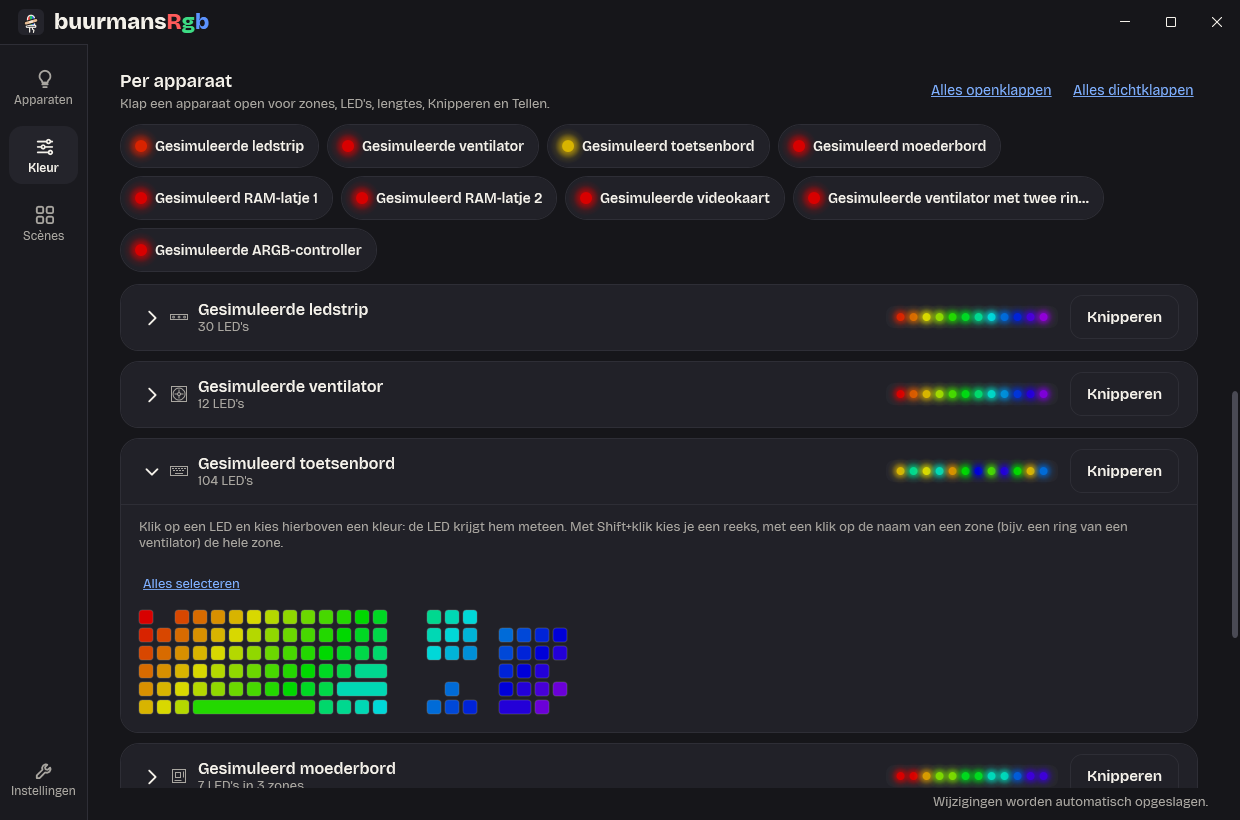
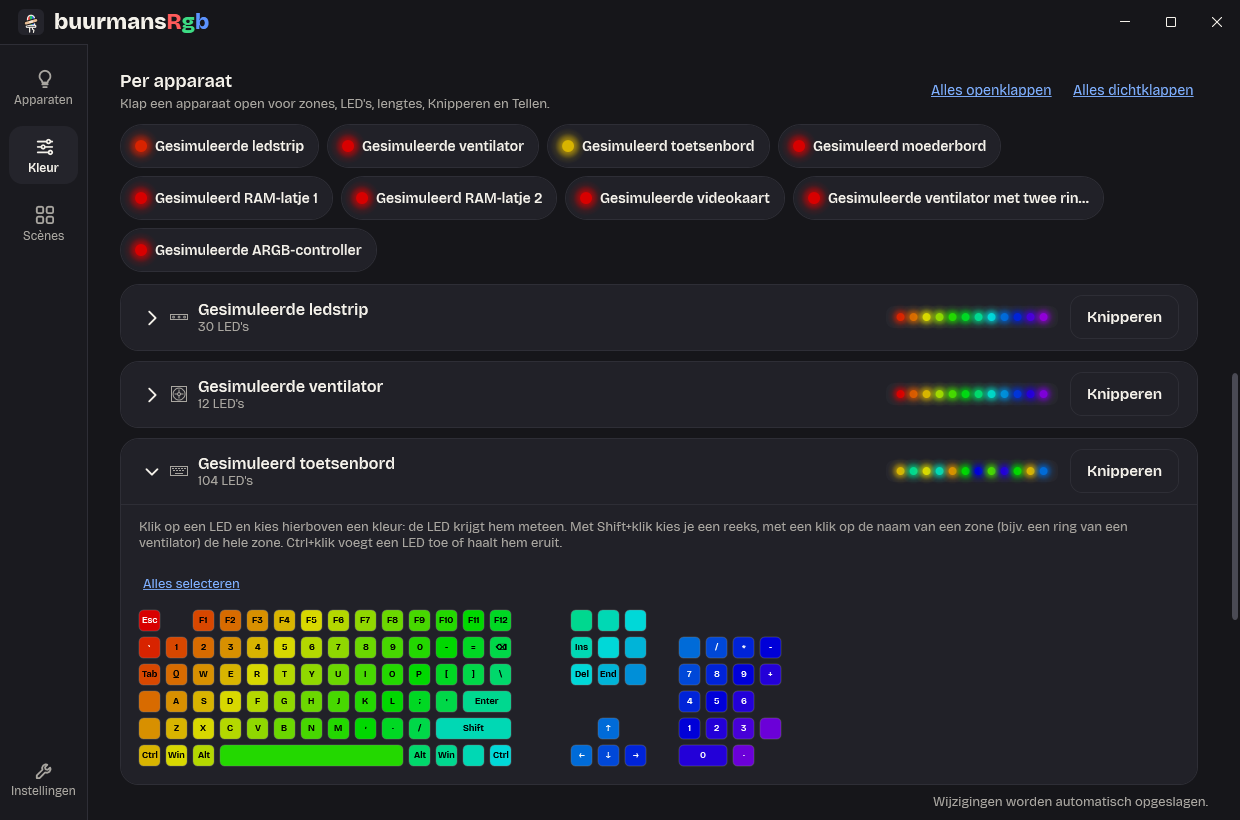
docs: describe Ctrl+click and key letters
DESIGN.md 9.11, the manual (Ctrl+click, Ctrl+Space, letters on the
keys), developer docs (tests, measurement, steps on real hardware), a
row in the build plan and new ideas. Fresh screenshots of the keyboard
with letters and with W, A, S and D chosen by Ctrl+click.

diff --git a/docs/ontwikkelaars.md b/docs/ontwikkelaars.md
@@ -126,6 +126,7 @@ met `RepoFiles` (`Root`, `AppSource`), en de XAML van de app als tekst met `AppX
 | Statusregel | `StatusLineViewModelTests` (met nep-bronnen: één melding met zijn knop, de pauze vóór het voorbeeld dat stilstaat en de verbinding weg vóór alles, met de rest op volgorde onder Details en "Details: nog 1 melding"/"nog 2 meldingen"; de verbinding weg alleen bij `DevicesExpected` en alleen bij "niet bereikbaar" of "geen goed antwoord"; de volgende neemt de regel als de belangrijkste wegvalt, met de melding uit `Others` gehaald in plaats van de lijst opnieuw gemaakt en de weggevallen melding pas daarna leeg; "Effecten lopen weer." zonder knop en na 5 s weg; de knop volgt zijn bron ("Stilzetten", "Zoeken…"); Details sluit als er niets meer onder staat; na `Dispose` volgt hij niet meer), `StatusLineViewTests` (op het echte `LampsPage` en `ColorPage`: de pauze in de regel met "Hervatten" en het voorbeeld onder Details, dat Tab bereikt en een schermlezer bij naam kent, "Laten lopen" werkt daar en houdt de focus; de verbinding weg neemt de regel en wordt voorgelezen, "Opnieuw verbinden" zegt "Zoeken…", "Hervatten" onder Details stuurt `resume`, en de pauze krijgt de regel terug; "Hervatten" in de regel verplaatst de focus; de focus blijft op "Laten lopen" onder Details als de verbinding terugkomt, gaat van Details naar de knop in de regel als Details weggaat, en van "Opnieuw verbinden" naar de schakelaar van Hele huis als die knop of de hele kaart weggaat; een pauze die komt brengt de kaart en wordt voorgelezen; zonder echte apparaten geen regel bij OpenRGB weg), `OpenRgbStatusViewModelTests` (de gewone zin per stand, de technische zin met de SDK-server, de tooltip met de tip, `CanRestart` alleen zonder verbinding, `RestartRequested`), `OpenRgbStatusViewTests` (rechtsboven op Apparaten: de zin, de tooltip, de ⓘ, "Herstarten" dat Tab bereikt en `restart` stuurt met de melding onderaan, weg zodra OpenRGB terug is; bij Instellingen de technische zin uitgeschreven), `MainViewModelTests` (`Restart_…`), `EngineApiTests`, `EngineIpcServerTests` en `EngineRpcTests` (`RestartAsync` bereikt wat het tray-item doet, over de pipe, en doet niets zonder) |
 | Andere RGB-software | `OtherRgbSoftwareListTests` (met een verzonnen proceslijst: elk programma op een van zijn exe-namen zonder `.exe`, in elke hoofdletter, ook als service in sessie 0; een programma één keer; de volgorde van de lijst; de service OpenRGB alleen of een OpenRGB alleen in de eigen sessie geen melding, een OpenRGB in een gebruikerssessie naast de service wel; de ids die `settings.json` bewaart en geen exe-naam twee keer), `OtherRgbSoftwareCheckTests` (met `FakeProcessSnapshot` en `FakeResumeEvents`: niets lezen tot er gevraagd wordt, één keer melden, een gestopt programma weg, een lijst die niet leest houdt wat er was, na het ontwaken opnieuw kijken, wegklikken voorgoed ook als het programma terugkomt, een id met de hand in andere hoofdletters telt ook, een onbekende id geweigerd, met de hand terugzetten), `SystemProcessSnapshotTests` (de echte proceslijst: het eigen proces met zijn sessie, en `services` in sessie 0), `EngineHostTests` en `EngineHostReloadTests` (één check bij het starten, wegklikken bewaard, met de hand weghalen toont de melding weer zonder het bestand te herschrijven), `EngineApiTests` (Verversen kijkt opnieuw), `JsonSettingsStoreTests` (`dismissedOtherRgbSoftware`), `EngineRpcTests`, `StatusLineOtherRgbSoftwareTests` (de zin, "Uitleg" met de uitleg in de app (afsluiten, Opstartapps, Handmatig), open tot de melding weggaat en daarna dicht, de link naar `#andere-rgb-software` alleen met een handleiding, de eigen zin en uitleg van een tweede OpenRGB, de plek na de verbinding en vóór de pauze, "Niet meer melden" in de regel en onder Details), `MainViewModelOtherRgbSoftwareTests`, `AppInfoViewModelTests` (`OpenGuideAt`) en `StatusLineViewTests` (voorgelezen, de naam "SignalRGB niet meer melden" en de focus daarna; "Uitleg over SignalRGB" als wisselknop vóór "Niet meer melden" in de Tab-volgorde, open en dicht met de toggle-status, de uitleg in de UI Automation-boom, zonder handleiding geen link; onder Details een eigen Uitleg met de link die de handleiding opent), `MainViewModelStillPreviewTests` ("Niet meer melden" haalt geen nieuw beeld) |
 | Per-LED-editor | `LedEditorViewModelTests`, `MainViewModelLedEditorTests` (ook mengen kleurt de gekozen LED's meteen, en een slepende schuif terwijl de engine bezig is geeft weinig aanroepen met de laatste kleur, met `FakeEngineApi.SetGate`, ook als de engine tussendoor `LightingChanged` meldt; ook alleen met toetsen een reeks kiezen en kleuren, twee snelle Shift+→ voordat de engine de kleuren gaf, alles kiezen en Escape; een ander effect dan Per LED kiezen heft de selectie op, ook bij Kleurenloop, een effect van de engine niet), `DevicePreviewKeyboardTests` (de actieve LED: vorige en volgende ook over zones heen, Home en End, de grenzen, ↑ en ↓ naar de rij die de view vond of de zone ernaast, Shift voor een reeks vanaf de LED waar je vandaan kwam, Ctrl+A, Escape alleen met een selectie op dat apparaat, een klik maakt een LED actief, bij een kortere lengte blijft hij op een LED die de zone toont), `PreviewViewModelTests` (de actieve LED blijft op zijn plek in zijn zone als de apparaten opnieuw komen, ook als een zone ervoor langer werd), `LedPreviewViewKeyboardTests` (welke toets wat doet, de rij erboven of eronder in een rij die omloopt en op een toetsenbord met een brede spatiebalk, Tab-stop en focus naar de zone met de actieve LED, een echte klik op een ander apparaat neemt de focus alleen mee als die al in de LED's stond, de tooltip terug naar de actieve LED als de muis weggaat, de focusring, UI Automation, ook dat het item van de actieve LED de focus meldt; met een echt venster buiten beeld) |
+| Losse LED's en letters op de toetsen | `LedSetTests` (een verzameling losse LED's: erbij, eruit, een reeks erbij, eerste en laatste), `LedEditorViewModelTests` en `MainViewModelLedEditorTests` (Ctrl+klik en Ctrl+Spatie zetten een LED erbij of halen hem eruit, de laatste eruit heft de selectie op, een kleur, Verloop vullen en de laag gaan alleen naar de gekozen LED's en de LED's ertussen houden hun kleur of laag), `LedPreviewViewKeyboardTests` en `LedPreviewViewTests` (Ctrl+pijltjes alleen de focus, Ctrl+klik, `SelectionItemPattern` met `AddToSelection` en `RemoveFromSelection`), `KeyCapTextTests` (de korte tekst op een toets uit de toetsnaam: letters, F-toetsen, het numerieke blok, de woorden uit `Strings.resx`, niets voor de spatiebalk en lange onbekende namen), `KeyCapDrawingsTests` (zwart of wit naar de kleur van de toets, voor elke kleur minstens 4,5:1, dezelfde bevroren tekening in elk beeld, in het midden van de toets, wegvallen als de tekst niet past ook bij 225 %, in het contrastthema de kleur met een rand), `LedPreviewViewKeyCapTests` (de toetsen 1,5 keer zo groot met letters, op een smalle pagina zo groot als past en nooit breder dan zonder letters, groter met grotere tekst, in een nieuw beeld dezelfde tekeningen, opnieuw gemaakt bij een andere tekstgrootte, bij grote tekst op kleine toetsen valt weg wat niet past), `TextScaleViewTests.KeyboardWithKeyText_FitsThePageAtTheTextSize` (het gesimuleerde toetsenbord met letters op Kleur in het kleinste venster bij 100, 200 en 225 %: niets afgekapt, geen breder toetsenbord dan de pagina, de letters in de tekstgrootte), `ContrastThemeStyleTests.KeyboardPreview_KeyTextHasTheTextOfWindowsWithAHalo` en `ContrastThemeTests` (`KeyCapBrush` en `KeyCapHaloBrush`). `TestKeyboards` is het volledige toetsenbord van de gesimuleerde apparaten voor de UI-tests |
 | Pagina's | `NavigationViewModelTests`, `ColorPickerViewModelTests` (elke gemengde kleur meteen op het apparaat, ook elke stap van een schuif, behalve bij `IsUnused`, en een hex-code die geen kleur is: niets tijdens het typen, bij het verlaten van het veld de code van de kleur terug met een melding die weggaat met een kleur die klopt, een andere kleur of `Show`; een leeg veld zonder melding), `HexCodeViewTests` (op de echte `ColorPage`: de melding onder de hex-code pas als het veld de focus verliest, als live region; de hex-code is een veld met de rand van invoer en de focusring, waarin een hele code past, ook in het kleinste venster; de naam van de kleur staat ervoor, loopt mee met de schuiven en is geen live region), `MainViewModelDeviceColorTests` (per ingebouwd effect en een eigen effect of de kiezer de kleur nergens kwijt kan: alleen bij Regenboog, met een regel die het effect noemt, ook bij "Hele huis" en na een scène; mengen stuurt dan niets, + bewaart de kleur wel, en na Statisch gaat een kleur weer meteen op het apparaat; een scène met Statisch daarna toont de kleur van het apparaat, een scène die Regenboog laat staan houdt de gemengde kleur), `MainViewModelTests` en de andere `MainViewModel*Tests`, waaronder `MainViewModelFollowLightingTests` (Kleur volgt een scène uit het tray-menu; een kleur die je bij Regenboog mengt blijft staan, behalve als de scène een effect met een kleur aanzet; in `MainViewModelTests` ook bij elke nieuwe lijst apparaten zolang hetzelfde apparaat gekozen blijft, en is dat weg, dan de kleur van "Hele huis") en `MainViewModelColorLoopTests` (een loopkleur verandert meteen mee met de schuiven, hex en vaste kleuren, ook slepend terwijl de engine bezig is en tussendoor `LightingChanged` meldt), `ColorLoopViewTests` (op de echte `ColorPage` gaat het vinkje "Kleuren over de LED's verdelen (…)" over meer regels in plaats van afgekapt te worden, ook naast de navigatiebalk in het kleinste venster van 960 px breed; `CheckBoxStyleTests`: het vakje staat naast de eerste regel en bij één regel in het midden), `MainViewModelEffectColorsTests` (de kleuren van Fonkelen, Komeet, Scanner en Vuur: de vakjes bij die effecten, zonder lijst de kleur van het apparaat of het warme vuur, verven, + en −, wisselen tussen effecten houdt elk zijn lijst, twee lijsten die wachten vervangen elkaar niet, gekozen LED's gaan voor, "Standaardkleuren" alleen met een eigen lijst en daarna weer de kleur van het apparaat of het warme vuur), `ColorLoopEditorViewModelTests` (de vakjes blijven dezelfde bij verven en kiezen) en `ColorListEditorViewModelTests` (de gedeelde editor van de kleurenloop en de effecten, binnen zijn minimum en maximum), `PresetTileTests` (de dikke rand van het gekozen vakje, met een echt venster buiten beeld), `ColorListEditorViewTests` (de vakjes, + en − in een echt venster buiten beeld, 12 kleuren in twee rijen van zes, en de kaart "Kleuren van het effect" met "Standaardkleuren" op de echte `ColorPage`; XAML van de app zoekt zijn stijlen al tijdens het laden, dus `AppTheme` zet het thema in de resources van een `Application`, alleen zolang zo'n test loopt, in een collectie die niet parallel loopt), `CustomColorsViewModelTests` (+ met de kleur van de kiezer, niet dubbel, hooguit 12, weghalen, `Show` zonder terugsturen) en `ToolboxViewTests` (op de echte `ColorPage`: de vakjes van 32 px in rijen van links naar rechts, de eerste negen op één rij in een breed venster, focus, namen voor een schermlezer, + en een eigen kleur met de focus naar het nieuwe vakje, de focus terug op dezelfde kleur als de engine andere kleuren stuurt, Delete met de focus naar het volgende vakje of +, "Weghalen" in het contextmenu, een vaste of eigen kleur gaat zonder knop meteen op alle apparaten bij "Hele huis" en op het gekozen apparaat, en bij Regenboog geen mengpaneel maar één zin in kaart 4) en `TileCornerTests` (de kleinere hoeken van de vakjes van 32 px en van +, de vakjes van 44 px en de knop "+ nieuw" houden die van het ontwerp) |
 | Contrast en velden | `TokenContrastTests` (de contrasten van de kleuren in `Tokens.xaml` met de formule van WCAG 2 (`Wcag`): tekst en subtekst op elk vlak, de primaire knop en de links minstens 4,5:1, de rand van invoer op `surface`, `bg` en `preview-bg`, de tekst van een knop die uit staat (`DisabledTextColor`) op `bg`, `surface`, `surface-raised` en `preview-bg` ook minstens 4,5:1, de ring van een LED die uit staat of zwart is op `preview-bg`, `bg`, `surface` en de strip, het spoor van een schakelaar die uit staat (`SwitchOffTrackColor`) op `surface`, `surface-raised`, `bg` en `preview-bg`, en de knop van die schakelaar op een kaart en op dat spoor minstens 3:1; een nieuw paar gaat in `TextPairs` of `NonTextPairs`; de rand van een veld in rust, onder de muis en met de focus steeds lichter; geen brush in `Tokens.xaml` met een losse hexcode in plaats van een `Color`-token, met `LooseBrushPattern` zelf ook getest), `InputBorderStyleTests` (een tekstvak, een keuzelijst en een vinkje van het thema hebben `InputBorderBrush` in rust en `ControlHoverBrush` onder de muis, een tekstvak met de focus de ring van 2 px in tekstkleur), `DisabledStyleTests` (een gewone en een ronde knop die uit staan houden hun doorzichtigheid en krijgen `DisabledTextBrush`, een vlak in `DisabledFaceBrush` en de rand `DisabledBorderBrush` met een pijl als muisaanwijzer, aan blijven de kleuren van een knop; een dag die aan staat maar uit is krijgt ook de grijze tekst; een schakelaar die uit staat het spoor `SwitchOffTrackBrush` met de knop `KnobOffBrush`, aan het spoor in zijn kleur met de knop in `OnAccentBrush`), `SwitchTrackBrushConverterTests` (de knop van een schakelaar die aan staat minstens 3:1 op het spoor in de kleur van het apparaat, ook bij `#0000FF`, donkerblauw, grijs en zwart; de tint blijft, en niet lichter dan nodig; een kleur die het al haalt, blijft) |
 | Contrastthema | `ContrastThemeTests` (op de resources van `Theme.xaml`, met `FakeHighContrast`: met een contrastthema aan is elk token precies de brush van `SystemColors` die bij zijn rol hoort (`Assert.Same`: verschillende systeemkleuren kunnen gelijk zijn, zoals `HighlightText` en `Window`), elk token van `SystemBrushes` dat geen token van het ontwerp is (`DesignTokens`), heeft een regel in `RoleDesignColors` (een nieuw token zonder regel maakt de test rood) en zonder thema die kleur van het ontwerp: de kleur die het onderdeel eerst had, en wat alleen in een contrastthema te zien is, is zonder thema doorzichtig, uit blijven de kleuren van het ontwerp, aan en weer uit gaat erheen en terug, een ander contrastthema vervangt de kleuren in plaats van ze op te stapelen, de LED-kleuren, `LedOffBrush`, `StripBgBrush` en `StripLedOffRingBrush` veranderen niet, elke sleutel van `SystemBrushes` is een token, na `Dispose` volgt hij niet meer, en geen XAML van de app gebruikt een van die tokens als `StaticResource`, in geen van de vormen: `{StaticResource X}`, `{StaticResource ResourceKey=X}` of het element `<StaticResource ResourceKey="X" />`), `ContrastThemeViewTests` (de echte `SettingsPage`: een pagina die al open is, krijgt de systeemkleuren als het thema aangaat en de kleuren van het ontwerp terug als het uitgaat: subtekst, kaart, rand en de schakelaar met zijn bedekking, ring en knop), `ContrastThemeStyleTests` (de stijlen van `Controls.xaml` met een contrastthema aan: een gewone knop, een ronde knop en een kaartknop hebben `ButtonFace` en `ButtonText`, een gewone knop die uit staat `GrayText` voor tekst en rand op `ButtonFace` zonder doorzichtigheid, de primaire knop, een aangevinkt vakje en een dag die aan staat `Highlight` met `HighlightText`; onder de muis heeft de primaire knop `HighlightText` met tekst en ring in `Highlight`, een link `HotTrack` in rust en `Highlight` onder de muis, altijd onderstreept in de kleur van de tekst, de streepjesrand van "+ nieuw" en de schuifbalk `Highlight` in plaats van `WindowText`, een schakelaar (aan of uit) een ring in `Highlight`, en het kruisje van de titelbalk `Highlight` met `HighlightText` in plaats van rood), `HighContrastMessagesTests` (de meldingen van Windows die `SystemHighContrast` doorgeeft, door de test zelf gegeven: twee meldingen achter elkaar, ook van een andere thread, geven één `Changed` op de thread van de dispatcher, een melding daarna weer een, en alleen `HighContrast` van `SystemParameters` en de categorie `Color` van `UserPreferenceChanged` tellen), `DeviceChoiceViewTests` (de keuze van een apparaat op Kleur: de plek is gedempt, op het gekozen item van de open lijst `OnHighlightMutedTextBrush`, en het vak boven de lijst schrijft geen bindingsfout; de test luistert daarvoor naar `PresentationTraceSources.DataBindingSource`, wat na `PresentationTraceSources.Refresh()` ook zonder debugger werkt) |
@@ -195,8 +196,10 @@ apparaat in het voorbeeld kijkt. Een paar dingen om te proberen:
   gekozen en de tooltip noemt hem al; een klik in het midden van een ring kiest niets.
 - Doe de per-LED-editor alleen met het toetsenbord: ga bij "Gesimuleerd toetsenbord" met Tab
   naar de toetsen (de actieve krijgt een ring en een tooltip), loop met de pijltjes, ↑ en ↓,
-  Home en End, kies met Spatie, breid uit met Shift+→, kies alles met Ctrl+A en hef op met
-  Escape. Kies een reeks, ga met Shift+Tab terug naar de schuif Rood en druk een paar keer →:
+  Home en End, kies met Spatie, breid uit met Shift+→, zet een losse toets erbij of eruit met
+  Ctrl+Spatie (Ctrl+pijltjes gaan alleen met de focus), kies alles met Ctrl+A en hef op met
+  Escape. Op het gesimuleerde toetsenbord staan de letters op de toetsen; met Ctrl+klik kies je
+  losse toetsen, zoals W, A, S en D. Kies een reeks, ga met Shift+Tab terug naar de schuif Rood en druk een paar keer →:
   de reeks kleurt bij elke stap mee. Bij de ventilator met twee ringen gaat → van de binnenste
   ring door naar de buitenste, en de focus gaat mee. Kies "Hele huis", klik "Alles openklappen"
   en klik met de focus in de toetsen op een LED van een ander apparaat: de ring gaat mee. Zet daarna Verteller aan
@@ -1415,6 +1418,7 @@ Gemeten op de ontwikkel-pc; "één kern" is het percentage van één CPU-kern.
 | Engine | Scènes en eigen effecten delen (`scene-delen`): alleen bij een klik op Exporteren, Code kopiëren, Importeren of Code plakken; geen timer, polling of luisteraar erbij en niets per frame. Brotli zit alleen in de app (`ShareCode`). Een eigen engine is niet gemeten (de mutex en de events `Local\BuurmansRgb.Engine*` gelden voor de hele Windows-sessie). Los gemeten in Release met een tijdelijke test (daarna weg) op `EngineApi` met de gesimuleerde apparaten: een scène met een eigen effect van drie stappen, acht apparaten met een eigen kleur, 100 per-LED-kleuren en vier apparaten die meedoen; drie rondes van 2.000 keer na 200 om op te warmen (importeren 200 keer) | Exporteren 29–117 µs, `SharedFileReader.Read` 37–182 µs, de code maken 3,8–4,0 ms (Brotli op de kleinste stand, in de app) en lezen 25–37 µs; importeren 2,4 ms per scène, oplopend tot 10–25 ms als er al honderden "Gamen (n)" zijn (de vrije naam zoeken). Eén keer per klik, dus niet te merken | 17–22 KB per export, 36–37 KB per lezen, 28 KB per code lezen, ~100 KB per import; de JSON 4.781 bytes, de code 636 tekens (een scène zonder per-LED-kleuren 482) |
 | Engine | Overgang naar een scène (`scene-overgang`): een eigen engine is niet gemeten (de mutex en de events `Local\BuurmansRgb.Engine*` gelden voor de hele Windows-sessie). Los gemeten in Release met een tijdelijke testklasse (daarna weg) in een `git archive` van main (fa954a5) en van de branch: `RenderAnimationFrame` (Render + `DeviceOutput` + versturen) over één apparaat van 104 LED's op een `ManualClock`, 20.000 frames opwarmen en dan 200.000, vier rondes om en om met main; en het begin van een wissel (`Replace`) over de twaalf gesimuleerde apparaten, 2.000 keer. Zonder overgang komt er niets bij: geen timer, geen polling | Regenboog per frame 1,59–1,97 µs, main 1,53–1,87 µs: geen verschil buiten de ruis. Tijdens een overgang van regenboog naar regenboog 2,34–2,67 µs (~0,8 µs voor de mengkleur), van statisch naar statisch 0,83–0,87 µs; bij 30 fps ~0,008 % van één kern, alleen zolang de overgang loopt (standaard 0,5 s). Bij een statisch effect loopt de render-loop alleen tijdens de overgang en stopt daarna weer. Het begin van een wissel 11,4–13,2 µs met overgang tegen 9,2–10,7 µs direct (één render extra per apparaat voor de kleuren van dat moment). Na "alleen apparaten die veranderen gaan over" (opnieuw gemeten, 1f1e886 tegen de fix, om en om, de pc drukker dus alles hoger): een wissel van alle apparaten met overgang 31,5–38,6 µs (was 33,1–43,6), een scène van één apparaat 12,3–30,2 µs (was 13,5–48,9: de andere elf renderen niet meer extra), "Alles aan/uit" 14,7–40,7 µs (was 10,0–35,6): het vergelijken valt in de ruis | 0 bytes per frame, ook tijdens een overgang (`LightingControllerSceneFadeTests`). Per apparaat één buffer van 3 bytes per LED bij de eerste overgang, daarna hergebruikt (~336 bytes voor 104 LED's). Een wissel alloceert 2.040 bytes met overgang, 2.256 direct: de nieuwe effecten, zoals altijd. "Alles aan/uit" met overgang ~1,2 KB meer per wissel (de verlichting van vóór, om te vergelijken), een scène niets meer; een frame nog steeds 0 bytes |
 | Engine | Laag boven het effect (`toetsenbord-laag`): geen eigen engine gemeten (de mutex en de events `Local\BuurmansRgb.Engine*` gelden voor de hele sessie). Los gemeten in Release in een testproces (tijdelijke testklassen in een kopie van `scene-overgang` en van de branch, `artifacts\toetsenbord-laag\meting.md` in de werkruimte van de nacht): `RenderAnimationFrame` over één apparaat van 104 LED's met Regenboog, 200.000 frames na 200.000 opwarmen, vier runs om en om | Per frame: vóór 1,23–1,48 µs; na zonder laag 1,25–1,66 µs, met een laag op 4 LED's (WASD) 1,25–1,38 µs, op alle 104 LED's 1,49–1,92 µs (binnen de ruis tot ~0,3 µs meer, ~0,001 % van één kern bij 30 fps). Statisch met een laag: geen render-loop | 0 bytes per frame (ook `RenderAnimationFrame_WithALayer_AllocatesNothing`); een paar honderd bytes per apparaat met een laag, één keer gemaakt bij een andere laag |
+| App (testproces, Release) | Losse LED's en letters op de toetsen (`ctrl-klik-selectie`): de engine verandert niet. Gemeten is `OnRender` van het voorbeeld van het gesimuleerde toetsenbord (104 toetsen, 900 px breed, 10 LED's gekozen, elke frame andere kleuren), in een tijdelijke testklasse (daarna weg) in Release, 20.000 beelden opwarmen en 5 × 40.000 beelden, drie keer om en om met de build van `toetsenbord-laag` (plus een eerdere run van vóór) (`artifacts\ctrl-klik-selectie\meting.md` in de werkruimte). Na: met letters op de toetsen. Zonder de 92 `DrawDrawing`-aanroepen (een proef) is het weer 18.352 B en ~13–16 µs: de view zelf maakt per beeld niets aan, de extra bytes zijn de opnames van WPF zelf. Bij 20 beelden per seconde is dat ~0,2 ms CPU en ~270 KB extra per seconde, alleen zolang het toetsenbord open in beeld is | Vóór 13,4–32,6 µs (beste 13,4), na 22,2–33,1 µs (beste 22,2) per beeld; de pc was niet stil, dus de ruis is groot | Vóór 18.352 B, na 31.864 B per beeld (WPF) |
 | App (Release, zichtbaar) | Op Lampen, regenboog | ~5,0 % van één kern (was 10,2 % vóór de begrenzing van het voorbeeld) | 166 MB working set, 83 MB private |
 | App (Release, zichtbaar) | Op Kleur met "Hele huis", regenboog | ~3,2 % van één kern (was 3,8 %) | 179 MB working set, 88 MB private |
 | App (Release, zichtbaar) | Op Scènes, of geminimaliseerd, regenboog | 0,0–0,2 % (was 1,7 en 0,6 %): geen beelden | 182–191 MB working set, 89–97 MB private |
@@ -1830,6 +1834,27 @@ doe je zelf. Noteer wat werkt in [hardware.md](hardware.md).
    **Laag weghalen**) en zet de scène weer aan: de laag komt terug, met een zachte overgang als
    "Overgang naar een scène" niet op Direct staat.
 6. Zet de pc in slaapstand en maak hem wakker: na 10 seconden horen effect en laag terug te zijn.
+
+### Losse LED's en letters op de toetsen
+
+1. Klap bij Kleur het echte toetsenbord open en klik op W; Ctrl+klik daarna op A, S en D en kies
+   rood: alleen W, A, S en D lichten rood op, de toetsen ertussen houden hun kleur. Ctrl+klik nog
+   eens op S: S is niet meer gekozen. Doe hetzelfde met Als laag boven het effect en Regenboog.
+2. Doe hetzelfde alleen met het toetsenbord: ga met Tab naar de toetsen, loop met Ctrl+→ en
+   Ctrl+↓ (de keuze blijft staan) en zet toetsen erbij of eruit met Ctrl+Spatie.
+3. Kijk of de letters in het voorbeeld kloppen met de toetsen van het echte toetsenbord (ook bij
+   een niet-Amerikaanse indeling: OpenRGB geeft Amerikaanse namen, dus op een AZERTY- of
+   Duits toetsenbord kan het voorbeeld `Q` zeggen waar de toets `A` is; noteer het in
+   `docs/hardware.md`), en of de letters leesbaar blijven terwijl Regenboog eroverheen loopt.
+4. Zet Verteller aan (Ctrl+Win+Enter) en ga met Tab naar de toetsen: Verteller noemt de toets
+   ("W (LED 40)"), zijn kleur en of hij geselecteerd is; na Ctrl+Spatie zegt hij "geselecteerd"
+   of "niet geselecteerd". Doe hetzelfde met NVDA.
+5. Zet een contrastthema van Windows aan (Instellingen > Toegankelijkheid > Contrastthema's,
+   bijv. Woestijn en Nachtelijke hemel): de letters hebben de tekstkleur van het thema met een rand
+   in de vensterkleur en zijn op elke toetskleur leesbaar. Zet het thema daarna terug.
+6. Zet de tekstgrootte van Windows op 200 % (Instellingen > Toegankelijkheid > Tekengrootte):
+   het toetsenbord is breder en past zonder horizontale schuifbalk, ook in het kleinste venster;
+   lange woorden vallen weg, letters en cijfers blijven. Zet de tekstgrootte daarna terug.
 
 ### Eigen effecten
 

diff --git a/docs/handleiding.md b/docs/handleiding.md
@@ -590,7 +590,7 @@ een verloop van rood naar paars, donkerblauw, met een paar seconden overlopen).
 
 #### Per apparaat
 
-![Per apparaat bij "Hele huis": de chips om naar een apparaat te springen en de dichte kaarten, de kaart van het toetsenbord open met de regenboog op 45°](images/voorbeeld.png)
+![Per apparaat bij "Hele huis": de chips om naar een apparaat te springen en de dichte kaarten, de kaart van het toetsenbord open met de regenboog op 45° en de letters op de toetsen](images/voorbeeld.png)
 
 Onder "Bewaar als scène" staat de kop **Per apparaat**, met per apparaat een kaart. Bij "Hele
 huis" zijn die kaarten eerst dicht, zodat je niet langs alle LED's van alle apparaten hoeft te
@@ -694,6 +694,15 @@ Apparaten of Kleur staat meteen het nieuwste beeld er.
   maken de toetsen kleiner in een smal venster. LED's buiten de map (bijv. een logo) staan in
   een rij eronder. Met toetsnamen tekent het voorbeeld Tab, Caps Lock, Shift, Ctrl, Backspace,
   Enter, de spatiebalk en de 0 van het numerieke blok breder over de lege vakjes ernaast.
+- **Letters op de toetsen:** met toetsnamen staat op elke toets een korte tekst zoals op de toets
+  zelf: `W`, `7`, `F5`, `Esc`, `Ctrl`, `↑`. De letter is zwart of wit, wat het best afsteekt
+  tegen de kleur van de toets op dat moment; in een contrastthema van Windows heeft hij de
+  tekstkleur van Windows met een rand in de vensterkleur. Daarvoor is een toetsenbord met letters
+  anderhalf keer zo groot (toetsen van 21 px in plaats van 14), zolang het venster breed genoeg is;
+  met een grotere tekst in Windows groeien de toetsen mee. Past een tekst niet op zijn toets, dan
+  valt hij weg: bij 100 % bijv. `Shift` en `Caps` op een smalle toets, bij 200 % in een klein
+  venster de meeste woorden; letters, cijfers en pijltjes blijven. De spatiebalk heeft geen tekst.
+  De naam van een toets voor de muis en de schermlezer blijft zoals hij was (`W (LED 40)`).
 - **Namen:** wijs een LED aan voor zijn naam en nummer, bijv. "Escape (LED 1)", of "LED 5"
   zonder naam. Een schermlezer noemt de LED's zo ook, met de kleur die de LED op dat moment toont
   erachter ("LED 5, rood", "Escape (LED 1), warm wit"; zie "Kleurnamen" bij "Toegankelijkheid"), en kan ze selecteren
@@ -758,6 +767,13 @@ LED's, meteen terwijl je schuift, een hex-code typt of een vaste kleur kiest. St
 uit, dan gaat het aan bij de eerste kleur, ook bij "Verloop vullen". Kies je een andere LED, dan
 toont het mengpaneel diens kleur; de LED's ervoor houden wat je mengde.
 
+Met **Ctrl+klik** zet je een losse LED bij de gekozen LED's of haal je hem eruit, zoals in
+Verkenner: zo kies je bijv. W, A, S en D zonder de toetsen ertussen. Ctrl+Shift+klik zet de reeks
+vanaf de vorige klik erbij. Boven het mengpaneel staat dan hoeveel het er zijn ("4 LED's van
+Gesimuleerd toetsenbord") in plaats van "LED 3 t/m 7".
+
+![Het gesimuleerde toetsenbord met de letters op de toetsen; W, A, S en D zijn met Ctrl+klik gekozen en hebben elk een selectiering, de toetsen ertussen niet](images/toetsen-wasd.png)
+
 - **Naast een LED klikken mag:** een klik tot 12 px van het midden van een LED kiest die LED,
   ook als het bolletje kleiner is, ook net boven of naast het voorbeeld en ook met Shift. Zo is
   elke LED een doel van minstens 24 px, ook bij een verkleind toetsenbord. Tussen twee LED's kies
@@ -781,14 +797,22 @@ toont het mengpaneel diens kleur; de LED's ervoor houden wat je mengde.
   | Home en End | Naar de eerste of laatste LED van het apparaat |
   | Spatie of Enter | Kiest de actieve LED, zoals een klik |
   | Shift+pijltje, Shift+Home of Shift+End | Breidt de reeks uit tot de LED waar je heen gaat, zoals Shift+klik; zonder keuze begint de reeks bij de LED waar je vandaan kwam |
+  | Ctrl+pijltje, Ctrl+Home of Ctrl+End | Gaat naar die LED zonder de keuze te veranderen |
+  | Ctrl+Spatie | Zet de actieve LED bij de gekozen LED's of haalt hem eruit, zoals Ctrl+klik |
   | Ctrl+A | Kiest alle LED's van het apparaat, zoals "Alles selecteren" |
   | Escape | Heft de selectie op, zoals "Selectie opheffen" |
 
   Daarna ga je met Shift+Tab terug naar boven, naar de schuiven en de vaste kleuren: elke
   stap kleurt de gekozen LED's meteen.
-  Een schermlezer noemt de actieve LED bij zijn naam en kleur en zegt of hij gekozen is.
+  Een schermlezer noemt de actieve LED bij zijn naam en kleur en zegt of hij gekozen is
+  ("geselecteerd"); met de opdrachten van de schermlezer om een item aan de selectie toe te voegen
+  of eruit te halen werkt hij zoals Ctrl+klik. Haal je de laatste gekozen LED eruit, dan is het
+  alsof je Selectie opheffen koos.
+- **Losse LED's en de rest:** een kleur, een vaste kleur en de laag gaan alleen naar de gekozen
+  LED's; de LED's ertussen houden hun eigen kleur of laag.
 - **Verloop vullen** vult de reeks met een verloop van de kleur van de eerste naar die van de
-  laatste LED (geef die dus eerst een kleur).
+  laatste LED (geef die dus eerst een kleur). Met losse LED's gaat het verloop in gelijke stappen
+  over de gekozen LED's; de LED's ertussen houden hun kleur.
 - **Selectie opheffen**, een ander apparaat kiezen of een ander effect dan Per LED kiezen, geeft
   het mengpaneel weer aan het apparaat (bij Kleurenloop aan de kleur van de loop); een kleur zet
   het apparaat dan niet terug op Per LED.
@@ -807,7 +831,7 @@ toont het mengpaneel diens kleur; de LED's ervoor houden wat je mengde.
   Met Ctrl+A (of "Alles selecteren") en Laag weghalen haal je de hele laag van het apparaat weg.
   De knop is grijs zolang geen van de gekozen LED's een laag heeft.
 
-  ![Kleur voor de LED's met een toets van het gesimuleerde toetsenbord gekozen: onder "Waar komt de kleur?" staat "Als laag boven het effect" aan naast "Per LED", met "Laag weghalen" ernaast en daaronder het mengpaneel op rood](images/kleur-laag.png)
+  ![Kleur voor de LED's met W, A, S en D van het gesimuleerde toetsenbord gekozen ("4 LED's van Gesimuleerd toetsenbord"): onder "Waar komt de kleur?" staat "Als laag boven het effect" aan naast "Per LED", met "Laag weghalen" ernaast en daaronder het mengpaneel op rood](images/kleur-laag.png)
 
 - De laag hoort bij de verlichting: hij wordt bewaard, gaat mee in een scène (ook met "Bewaar als
   scène" en "Bijwerken met wat nu brandt") en in een gedeelde scène, en gaat mee in de overgang

diff --git a/docs/bouwplan.md b/docs/bouwplan.md
@@ -451,6 +451,7 @@ getest zonder hardware; wat op echte hardware getest moet worden, staat in `ontw
 | #137 | Refactor na de review van #135–#136, zonder dat er voor de gebruiker iets verandert: `RovingFocus.TargetOf` neemt het gedeelde begin van de pijltjesafhandeling van `DeviceChipRow` en `EffectTileGroup` over; de focussleutels van kaart en chip staan als `CardFocusKey`/`ChipFocusKey` in `DevicePreviewViewModel`; `TestEffects` heeft de effecten van de engine en Disco voor de tests; `LightingColumnWidth` heet `ValueColumnWidth`; de comments over de verdwenen regel onder de gemengde kleur zijn bijgewerkt. Twee ideeën staan in `docs/ideas.md` (één enum voor wat de kleurkiezer kleurt, en of `ColorPicker.IsUnused` weg kan). Het gedrag en het tekenen veranderden niet, dus geen meting |
 | #138 | Overgang naar een scène (`scene-overgang`, testpanel, Noor): een zachte overgang (crossfade) van de kleuren van dat moment naar een scène, en bij "Alles aan" en "Alles uit" (tray-menu, sneltoetsen, **Hele huis**, `--all-on`/`--all-off`, "Uit om" en "Aan om"), 0–2 s, standaard 0,5 s; tijdgebaseerd in de engine, 0 bytes per frame, bij een statisch effect alleen een render-loop zolang de overgang loopt. Een wissel tijdens een overgang begint bij de kleuren van dat moment; slaapstand, vergrendelen, scherm uit, pauzeren, afsluiten en OpenRGB dat wegvalt wachten er niet op. Te kiezen bij Instellingen onder Effecten ("Overgang naar een scène": Direct, Kort, Normaal, Rustig, Langzaam), bewaard als `sceneFade` in `settings.json` (optioneel, begrensd); de zip van "Instellingen bewaren…" neemt het mee, een gedeelde scène niet. "Minder beweging" van Windows laat de overgang zoals gekozen (licht in de kamer, geen beweging op het scherm) |
 | #139 | Laag boven het effect (`toetsenbord-laag`, testpanel, Jayden): een vaste kleur op gekozen toetsen of LED's boven op het effect, bijv. WASD rood over Regenboog, bij elk apparaattype. In de Per-LED-editor op Kleur onder "Waar komt de kleur?" twee ronde keuzeknoppen, **Per LED** (zoals eerst) en **Als laag boven het effect**, en de knop **Laag weghalen** (voor de gekozen LED's; met Ctrl+A de hele laag), grijs met tooltip zolang er niets weg te halen is; een LED met een laagkleur opent op de laag, Verloop vullen werkt ook in de laag. In de engine een masker per apparaat in `DeviceOutput` (`ShowOverlay`, alleen opnieuw gemaakt bij een andere laag; `LedOverlayStore`) na het effect en vóór de helderheid en de overgang, onder Tellen en Knipperen; uit is uit, ook de laag; LED's voorbij het eind van een kortere zone slaat hij over. Een apparaat waarvan alleen de laag verandert, gaat mee in de overgang naar een scène (`ChangedLocked`). Bewaard als `overlay` in `settings.json` en `profiles.json` (optioneel: een ouder bestand laadt zonder laag, een oudere engine slaat het over; een kleur die niet te lezen is toont het effect, na 4096 LED's valt de rest weg), dus ook bij Bewaar als scène, Bijwerken met wat nu brandt, een scène van een paar apparaten en in de zip van Instellingen bewaren…; per apparaat in een gedeelde scène, alleen met een laag, zodat een scène zonder laag hetzelfde bestand blijft. De lezer van gedeelde scènes slaat nu een onbekend veld over (van een nieuwere versie) in plaats van het bestand te weigeren. Een gedeelde scène mét laag is `version` 2 (`SharedFormat.MinVersion` 1 tot `Version` 2), zodat een versie van vóór deze PR "nieuwere versie" zegt in plaats van "klopt niet"; zonder laag en een eigen effect blijven `version` 1, als bestand en als code. IPC: `GetOverlayAsync` en `SetOverlayAsync`. `design/DESIGN.md` § 9.10. Gemeten (Release, testproces, 104 LED's, Regenboog): vóór 1,23–1,48 µs per frame, na zonder laag 1,25–1,66 µs, met een laag op 4 LED's 1,25–1,38 µs en op 104 LED's 1,49–1,92 µs, 0 bytes per frame |
+| #? | Losse LED's kiezen en letters op de toetsen (`ctrl-klik-selectie`, testpanel, Jayden): in de Per-LED-editor zet **Ctrl+klik** een losse LED bij de gekozen LED's of haalt hem eruit (Ctrl+Shift+klik een reeks erbij), met het toetsenbord **Ctrl+Spatie**; Ctrl+pijltjes, Ctrl+Home en Ctrl+End gaan alleen met de focus. De keuze is een verzameling losse LED's (`LedSet`); de laatste eruit is Selectie opheffen. Een kleur, Verloop vullen (in gelijke stappen over de gekozen LED's) en de laag gaan alleen naar de gekozen LED's: naar de engine gaat het stuk van de eerste tot de laatste, de LED's ertussen met hun eigen kleur of laag. Met gaten zegt de regel boven het mengpaneel "4 LED's van …". Een schermlezer hoort of een LED geselecteerd is (`SelectionItemPattern`, met `AddToSelection` en `RemoveFromSelection`; de zone is een lijst met `SelectionPattern` die meer LED's tegelijk kan kiezen). Op een toetsenbord met toetsnamen staat op elke toets een korte tekst (`KeyCapText`: "W", "F5", "7", en uit `Strings.resx` "Esc", "Shift", "↑"; de spatiebalk niets), zwart of wit naar de kleur van de toets in dat beeld (minstens 4,5:1), in een contrastthema `WindowText` met een rand in `Window` (tokens `KeyCapBrush`, `KeyCapHaloBrush` en `KeyCapSize`, die meegroeit met de tekstgrootte); een tekst die niet op zijn toets past valt weg. Per toets één bevroren tekening (`KeyCapDrawings`), geen tekst opmaken per beeld. Een toetsenbord met letters is tot 1,5 keer zo groot (toetsen van 21 px, 642 px breed: past in het kleinste venster ook bij 225 %), groeit met grotere tekst mee zover de pagina ruimte heeft en is nooit breder dan zonder letters. `design/DESIGN.md` § 9.11. De engine verandert niet. Gemeten (Release, testproces, `OnRender` van 104 toetsen): vóór 13,4–32,6 µs en 18.352 B per beeld, na 22,2–33,1 µs en 31.864 B (de extra bytes zijn de opnames van WPF zelf; de view maakt per beeld niets aan) |
 
 Daarvoor kwamen al: een refactor na de code-review (#11), de installatie-uitleg (#12, #15) en
 het onderzoek naar OpenRGB meeleveren (#13). Herstel-PR's zonder nieuwe functie krijgen geen rij,

diff --git a/design/DESIGN.md b/design/DESIGN.md
@@ -315,3 +315,16 @@ De gebruiker heeft deze tien ontwerpvragen op 19 november 2026 beslist: bij alle
 - **Tekstgrootte 200 %:** de rij loopt om; Laag weghalen gaat onder de keuzerondjes.
 - **Minder beweging:** er beweegt niets op het scherm; het voorbeeld toont de laag in de frames van de engine, zoals elk effect.
 - **Wat de laag is:** een deel van de verlichting: hij gaat mee in `settings.json`, in een scène (ook bij Bewaar als scène, Bijwerken met wat nu brandt en een scène van een paar apparaten), in een gedeelde scène en in de zip van Instellingen bewaren…, en mee in de overgang naar een scène. Uit is uit: een apparaat dat uit staat toont ook zijn laag niet. Knipperen en Tellen gaan over de laag heen. Helderheid geldt ook voor de laag.
+
+### 9.11 Losse LED's kiezen en letters op de toetsen (`ctrl-klik-selectie`)
+
+**Status: gebouwd (nacht 7).** Voorstel van Jayden (testpanel): in de Per-LED-editor losse LED's bij de keuze zetten of eruit halen, zoals WASD en de pijltjes zonder alles ertussen, en de letters op de toetsen van een toetsenbord in het voorbeeld, zodat je ziet welke toets welke is zonder over elke toets te bewegen.
+
+- **Losse LED's:** **Ctrl+klik** op een LED zet hem bij de gekozen LED's of haalt hem eruit, zoals in Verkenner; **Ctrl+Shift+klik** zet de reeks vanaf de laatst aangeklikte LED erbij. Met het toetsenbord gaan **Ctrl+pijltjes** (en Ctrl+Home, Ctrl+End) alleen met de focus, zonder de keuze te veranderen, en zet **Ctrl+Spatie** de LED met de focus erbij of haalt hem eruit. Haal je de laatste gekozen LED eruit, dan is het alsof je Selectie opheffen koos. Een kleur, Verloop vullen (in gelijke stappen over de gekozen LED's) en de laag (9.10) gaan alleen naar de gekozen LED's; de LED's ertussen houden hun kleur of laag. De regel boven het mengpaneel zegt bij gaten ertussen "4 LED's van Gesimuleerd toetsenbord" in plaats van "LED 3 t/m 7". De uitleg in de kaart (`PreviewHint`) eindigt met "Ctrl+klik voegt een LED toe of haalt hem eruit."
+- **Letters op de toetsen:** een toetsenbord met een toetsenkaart en toetsnamen (dezelfde namen als de tooltip) toont op elke toets een korte tekst zoals op de toets zelf: een letter, cijfer of teken zoals hij is ("W", ";", "F12", ook "7" op het numerieke blok), en voor de bekende langere namen een kort woord uit `Strings.resx` ("Esc", "Tab", "Caps", "Shift", "Ctrl", "Win", "Alt", "Menu", "Enter", "⌫", "Ins", "Del", "PgUp", "↑"). De spatiebalk en onbekende namen langer dan drie letters krijgen niets. Lettertype Bricolage Grotesque 600, token `KeyCapSize` (9 px bij 100 %, groeit mee met de tekstgrootte van Windows), in het midden van de toets.
+- **Kleur van de letter:** zwart of wit, per toets en per beeld, wat het meest afsteekt tegen de kleur die de toets nu toont (altijd minstens 4,5:1). Tokens `KeyCapBrush` en `KeyCapHaloBrush`: zonder kleur (standaard `Transparent`) kiest het voorbeeld zelf zwart of wit; in een contrastthema `WindowText` met een rand van 3 px in `Window` om de letters, zodat ze op elke toetskleur leesbaar zijn.
+- **Groter toetsenbord:** een toetsenbord met letters is tot 1,5 keer zo groot als zonder: toetsen van 21 px in plaats van 14, een volledig toetsenbord (24 vakjes breed) 642 px. Dat past op Kleur in het kleinste venster (960 px: 760 px ruimte bij 100 %, 678 px bij 225 %), dus geen horizontale schuifbalk en niets afgekapt. Bij grotere tekst groeien de toetsen mee met de letters (bij 200 % tot 3 keer, 42 px), maar nooit breder dan de ruimte; is er minder ruimte, dan krimpt het toetsenbord zoals zonder letters, en nooit kleiner dan zonder letters (tot de helft, `MinScale`). In het kleinste venster bij 200 % zijn de toetsen zo ~23 px en tonen 70 van de 104 toetsen hun tekst, bij 1180 px ~30 px en 84.
+- **Te kleine toets:** past de tekst met 2 px ruimte rondom (en de rand in het contrastthema) niet op de toets, dan valt hij weg in plaats van over de rand te lopen of kleiner te worden; de toets toont dan alleen zijn kleur, zoals eerst. Bij het gesimuleerde toetsenbord vallen bij 100 % de woorden van vier of vijf tekens op een toets van één vakje weg ("Caps", "Shift", "Enter", "PrtSc", "Home", "PgUp"), de letters, cijfers, F-toetsen en pijltjes blijven; bij 200 % in het kleinste venster blijven alleen de tekens van één of twee breed (letters, cijfers, F1–F9, pijltjes).
+- **Schermlezer:** de letters zijn versiering: de naam van een LED blijft wat hij was, de toetsnaam met zijn nummer en kleur zoals de tooltip ("W (LED 40)"). Een LED zegt of hij gekozen is met het `SelectionItemPattern` ("geselecteerd"), en het voorbeeld van een zone is een lijst met `SelectionPattern` waarin meer LED's gekozen kunnen zijn; `AddToSelection` en `RemoveFromSelection` werken zoals Ctrl+klik.
+- **Minder beweging:** er beweegt niets extra; de letters wisselen alleen van zwart naar wit als de toets van kleur wisselt.
+- *Gebouwd:* `KeyCapText` maakt de teksten, `KeyCapDrawings` per toets één bevroren tekening (zwart en wit), opnieuw gemaakt alleen bij andere toetsen, teksten, letter, grootte of kleuren, zodat een beeld geen tekst opmaakt. Gemeten: zie "Metingen" in `docs/ontwikkelaars.md`.

diff --git a/docs/ideas.md b/docs/ideas.md
@@ -520,6 +520,18 @@ uitbreidingen in `docs/bouwplan.md`.
   verloop met meer dan twee kleuren
 - In de per-LED-editor een rechthoek van toetsen selecteren (slepen over de matrix) in plaats
   van een reeks in LED-volgorde
+- De letters op de toetsen (`ctrl-klik-selectie`) volgen de Amerikaanse namen van OpenRGB; op een
+  AZERTY- of QWERTZ-toetsenbord kan het voorbeeld `Q` zeggen waar `A` op de toets staat. De
+  indeling van Windows gebruiken (`MapVirtualKeyEx` en `ToUnicodeEx` met de scancode van de toets)
+  of een keuze "Indeling van het toetsenbord" per apparaat
+- Op een toets van één vakje vallen `Shift`, `Caps`, `Enter`, `PrtSc` en `Home` nu weg (bij 200 %
+  in een klein venster bijna alle woorden). Een teken dat wel past, zoals ⇧, ⇪ en ⏎, of een tweede,
+  kortere tekst als het woord niet past (`Sh`), zou meer toetsen een tekst geven; wel nagaan of
+  Bricolage Grotesque die tekens heeft of dat WPF ze uit een ander lettertype haalt
+- De letters op de toetsen in een eigen laag (een `DrawingVisual` onder de view) die alleen opnieuw
+  tekent als een toets van zwart naar wit wisselt of andersom. Nu neemt elk beeld de 92 bevroren
+  tekeningen opnieuw op: gemeten ~8 µs en 13,5 KB (van WPF) per beeld extra, bij 20 beelden per
+  seconde ~0,2 ms CPU en ~270 KB per seconde, alleen zolang het toetsenbord open in beeld is
 - Per fan-ring kunnen kiezen waar LED 1 zit en welke kant hij op telt (draaien en spiegelen),
   bewaard per zone. OpenRGB zegt dat niet; het voorbeeld zet LED 1 nu bovenaan en telt met de
   klok mee

diff --git a/README.md b/README.md
@@ -37,7 +37,7 @@
 
 | Kleur | Per apparaat | Scènes |
 | --- | --- | --- |
-| ![Kleur: bovenaan de effecttegels, eronder de kleur mengen](docs/images/kleur.png) | ![De apparaten op Kleur als kaarten die je openklapt, het toetsenbord open met de regenboog schuin over de toetsen](docs/images/voorbeeld.png) | ![Scènes](docs/images/scenes.png) |
+| ![Kleur: bovenaan de effecttegels, eronder de kleur mengen](docs/images/kleur.png) | ![De apparaten op Kleur als kaarten die je openklapt, het toetsenbord open met de regenboog schuin over de toetsen en de letters erop](docs/images/voorbeeld.png) | ![Scènes](docs/images/scenes.png) |
 
 ## Installeren
 
